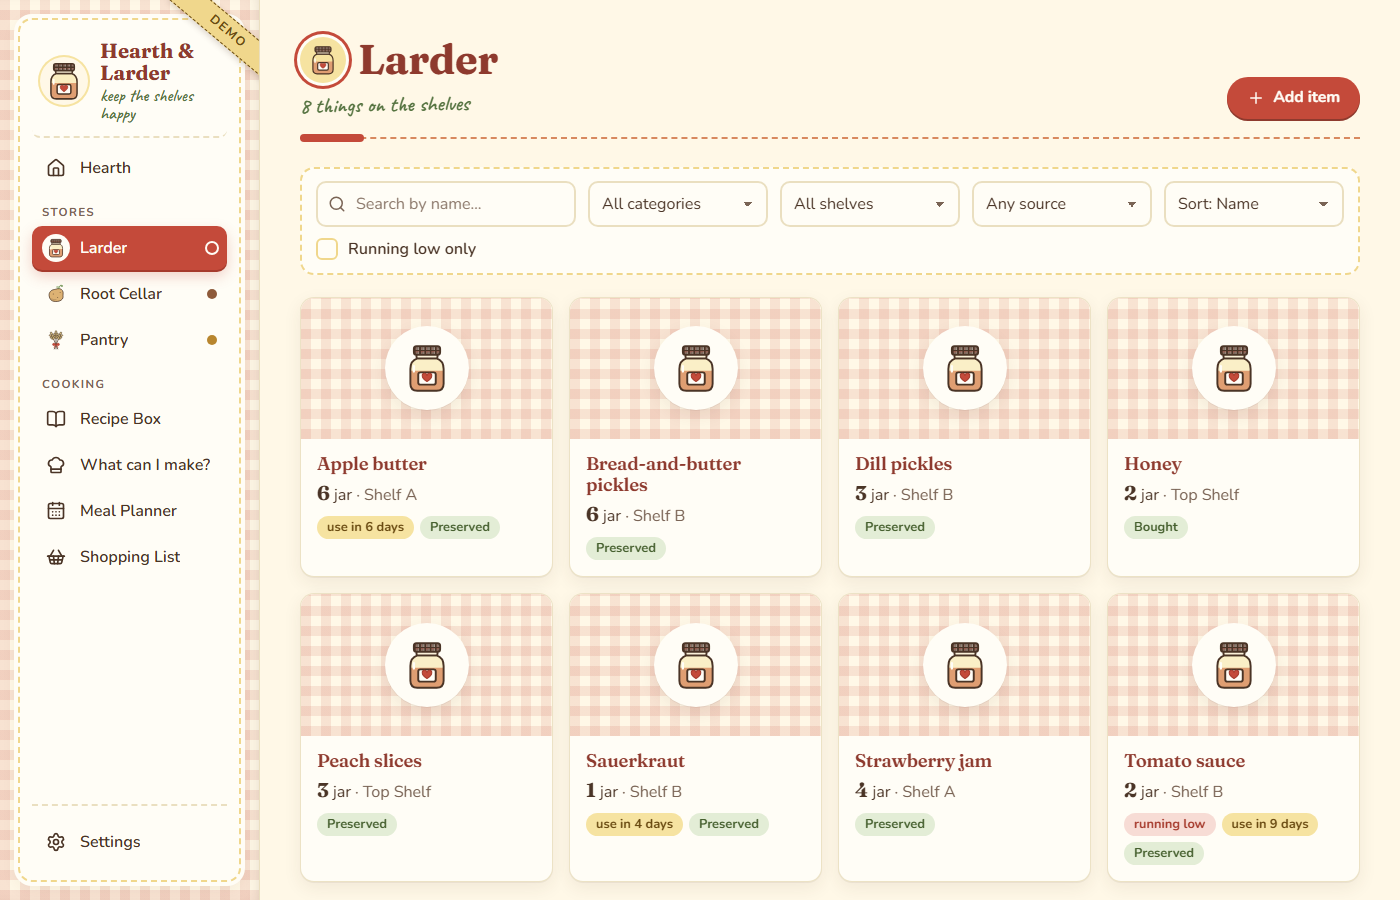
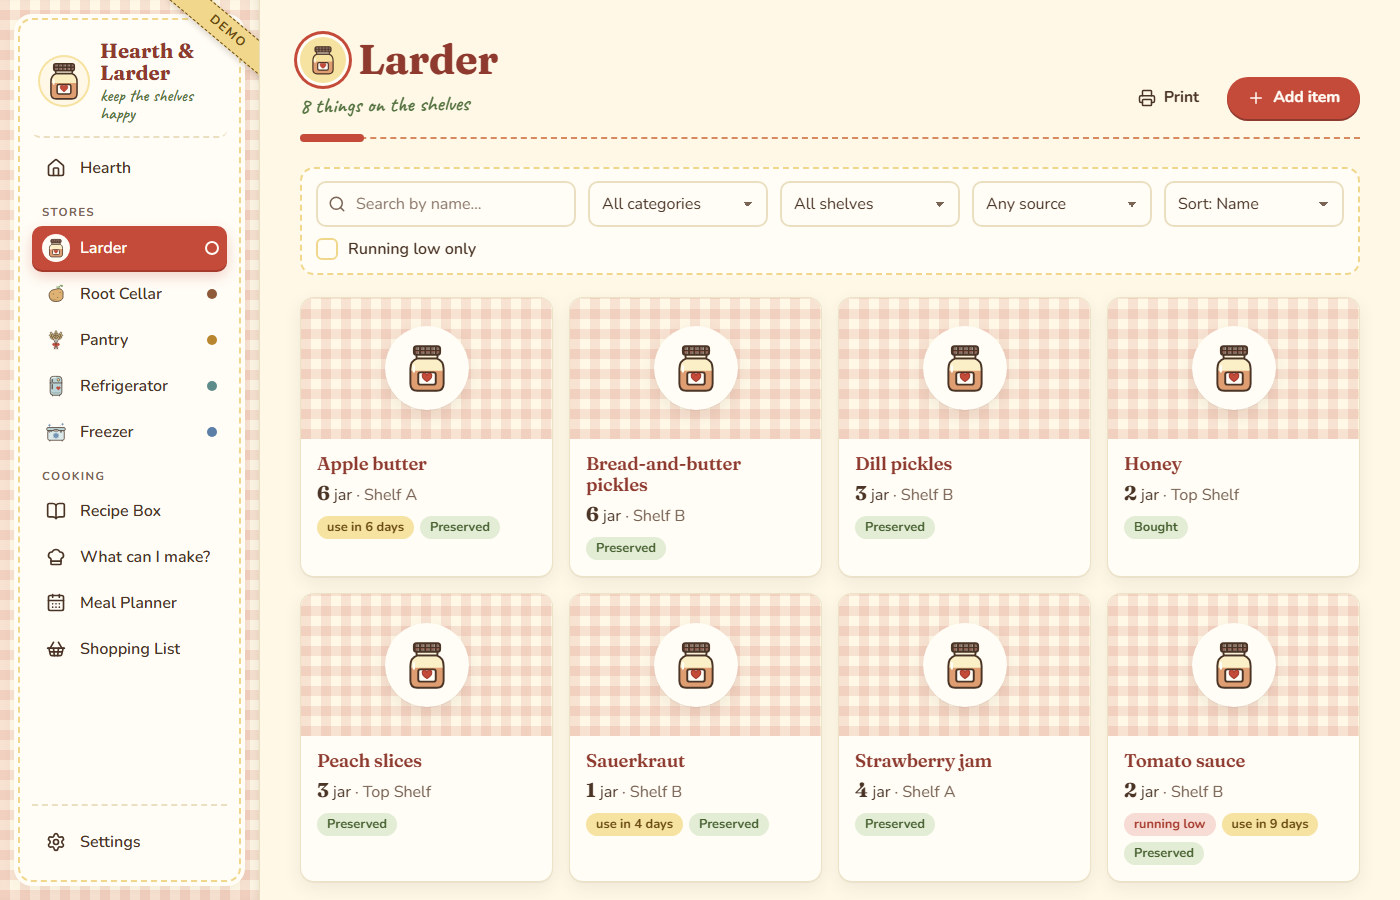
List five stores in the README and retake screenshots

diff --git a/README.md b/README.md
@@ -1,6 +1,6 @@
 # Hearth & Larder
 
-Hearth & Larder is a small kitchen keeper that runs on your own computer. It tracks what is in your larder, root cellar and pantry, holds your recipes, and helps you plan the week's meals and shopping.
+Hearth & Larder is a small kitchen keeper that runs on your own computer. It tracks what is in your larder, root cellar, pantry, refrigerator and freezer, holds your recipes, and helps you plan the week's meals and shopping.
 
 It's free. If it earns a place in your kitchen, you can buy me a coffee:
 
@@ -54,7 +54,7 @@ Hearth & Larder won't open. Please check what's wrong. Follow AGENTS.md and don'
 
 ## What it does
 
-- Keeps three stores (Larder, Root Cellar and Pantry), each with items, batches, use-by dates, photos and notes. You can move an item to another store.
+- Keeps five stores (Larder, Root Cellar, Pantry, Refrigerator and Freezer), each with items, batches, use-by dates, photos and notes. You can move an item to another store, and add, rename or remove stores in Settings. New batches in the Freezer start out marked as frozen.
 - Warns you when something is close to its use-by date or running low. You pick how many days ahead in Settings.
 - Stores recipes with scaling, ratings, tags and nutrition, and shows which ingredients you already have.
 - Suggests what you can make from what is on the shelves.
@@ -70,6 +70,7 @@ Hearth & Larder won't open. Please check what's wrong. Follow AGENTS.md and don'
 | ![A store with its items](docs/screenshots/larder.png) | ![One item with its batches](docs/screenshots/item.png) |
 | ![A recipe with ingredient status](docs/screenshots/recipe.png) | ![The weekly meal planner](docs/screenshots/planner.png) |
 | ![The shopping list](docs/screenshots/shopping.png) | ![Settings and backups](docs/screenshots/settings.png) |
+| ![The Freezer with its frozen batches](docs/screenshots/freezer.png) | |
 
 ## What you need
 
